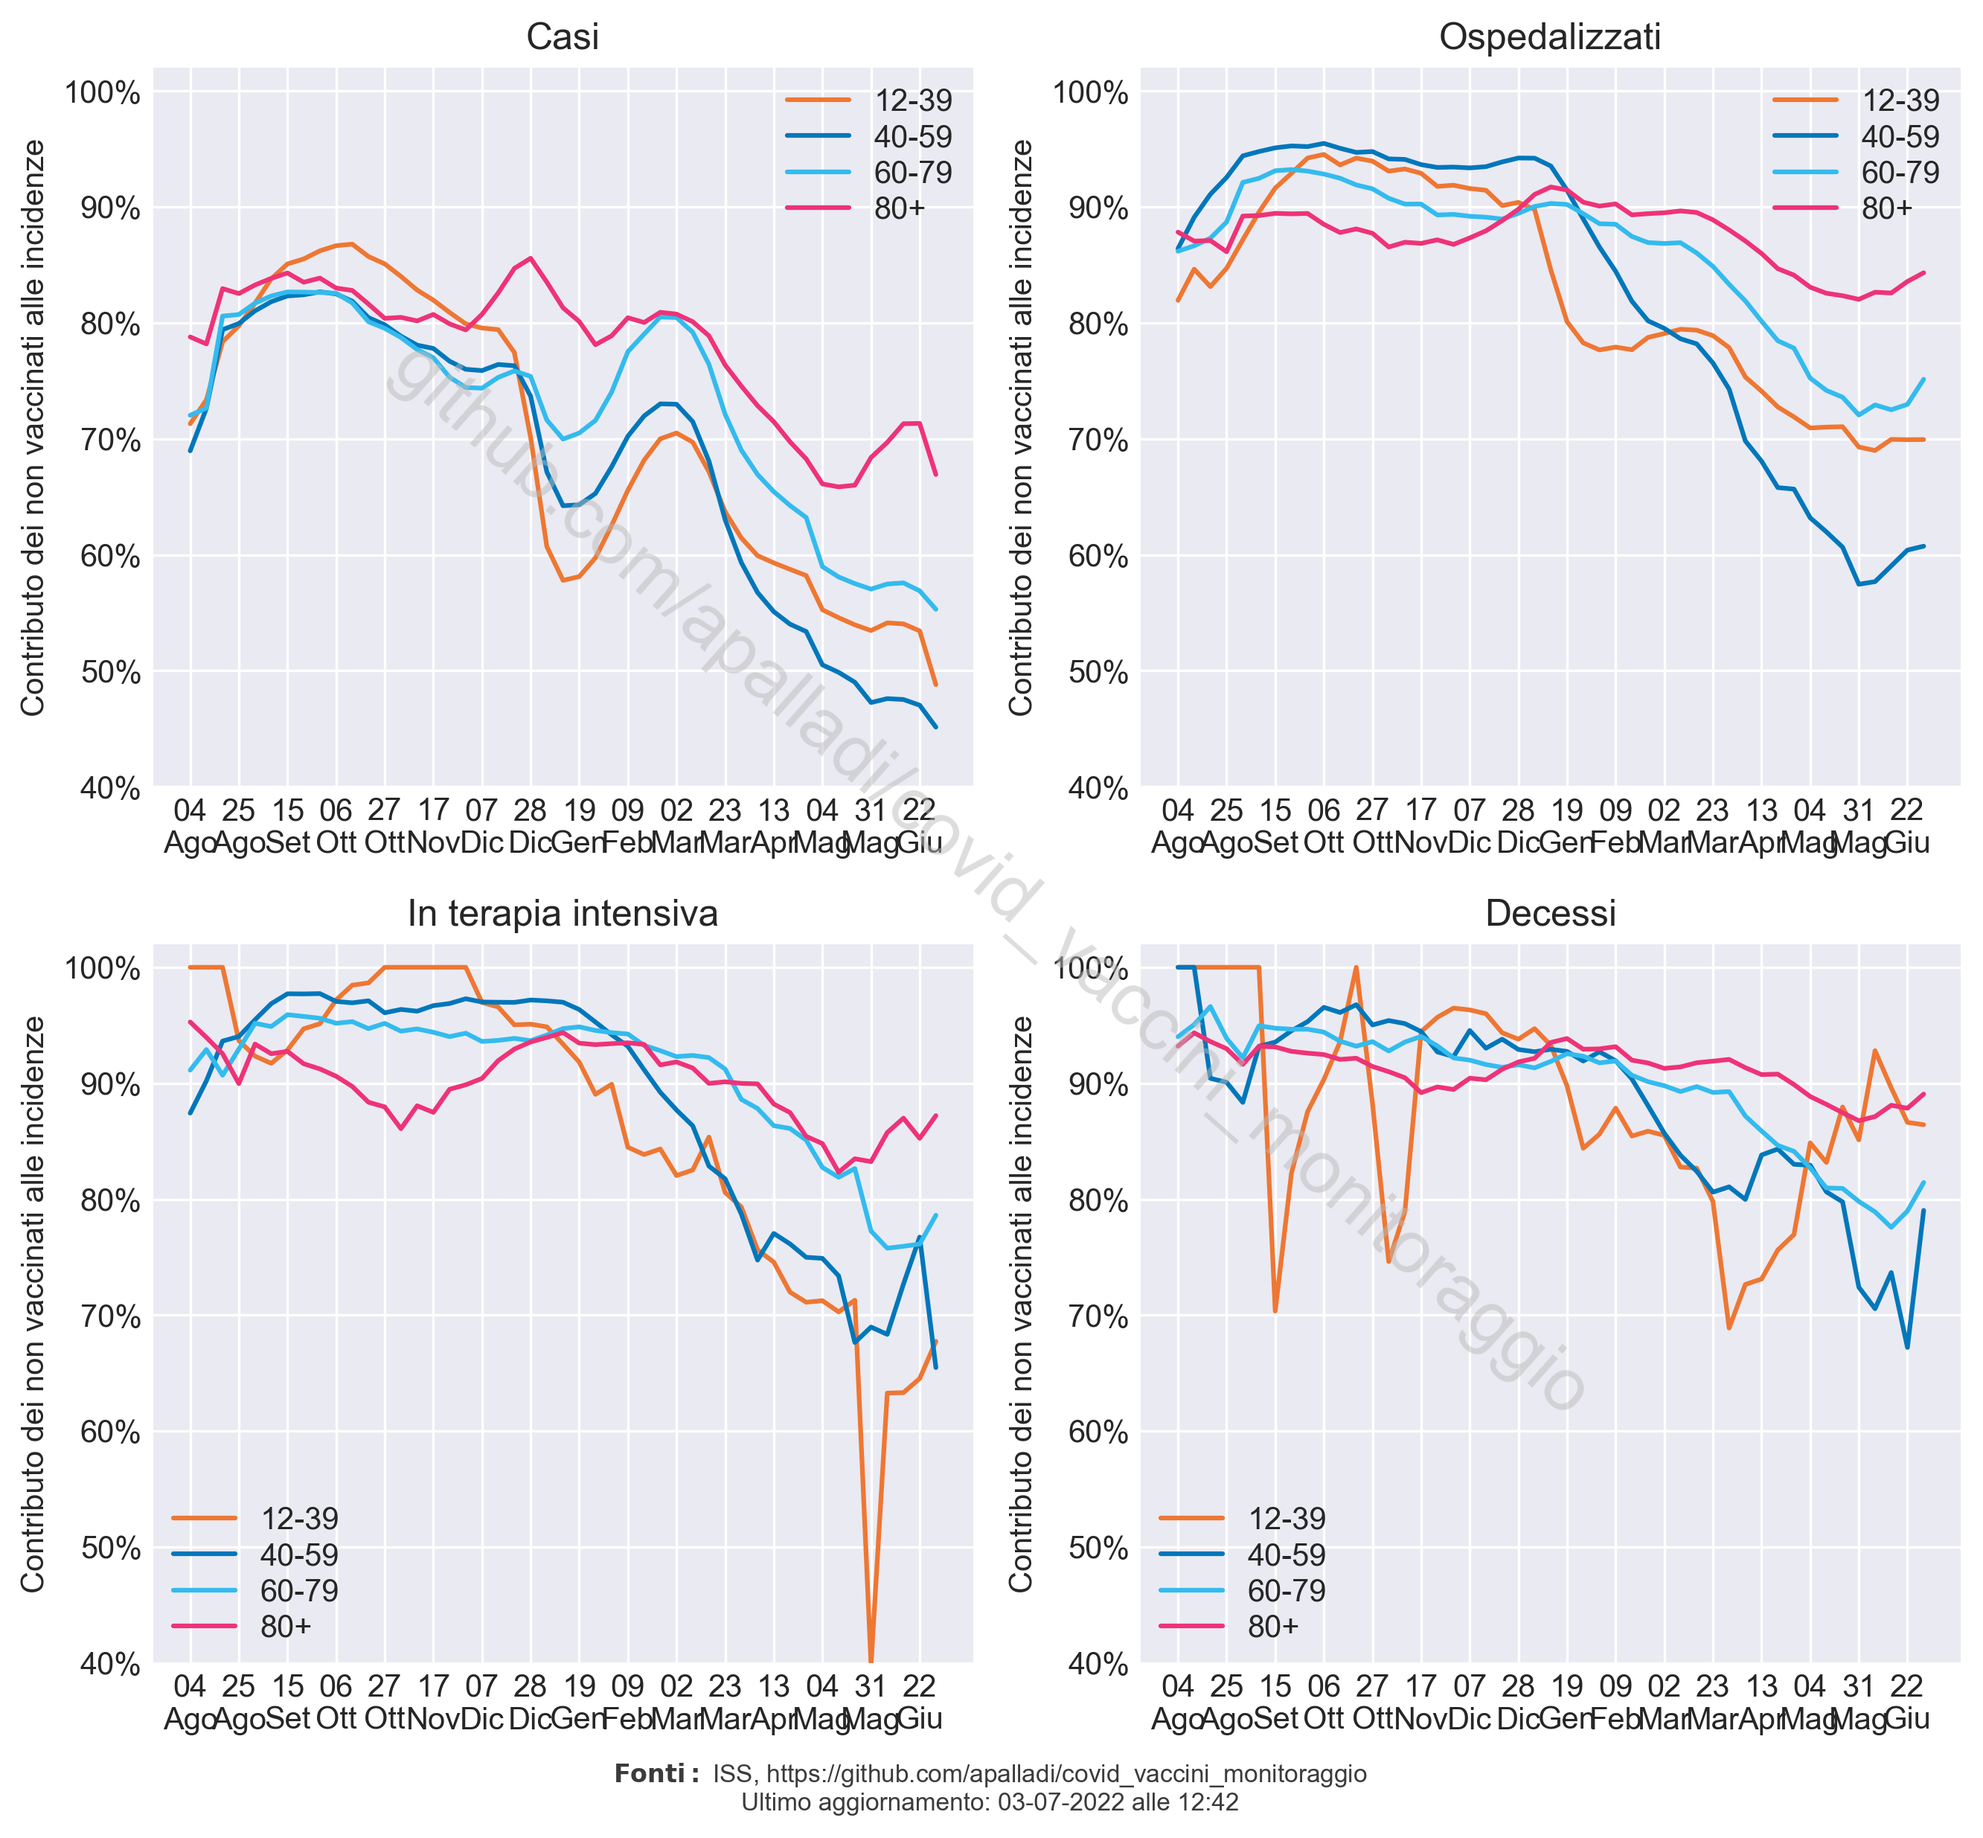
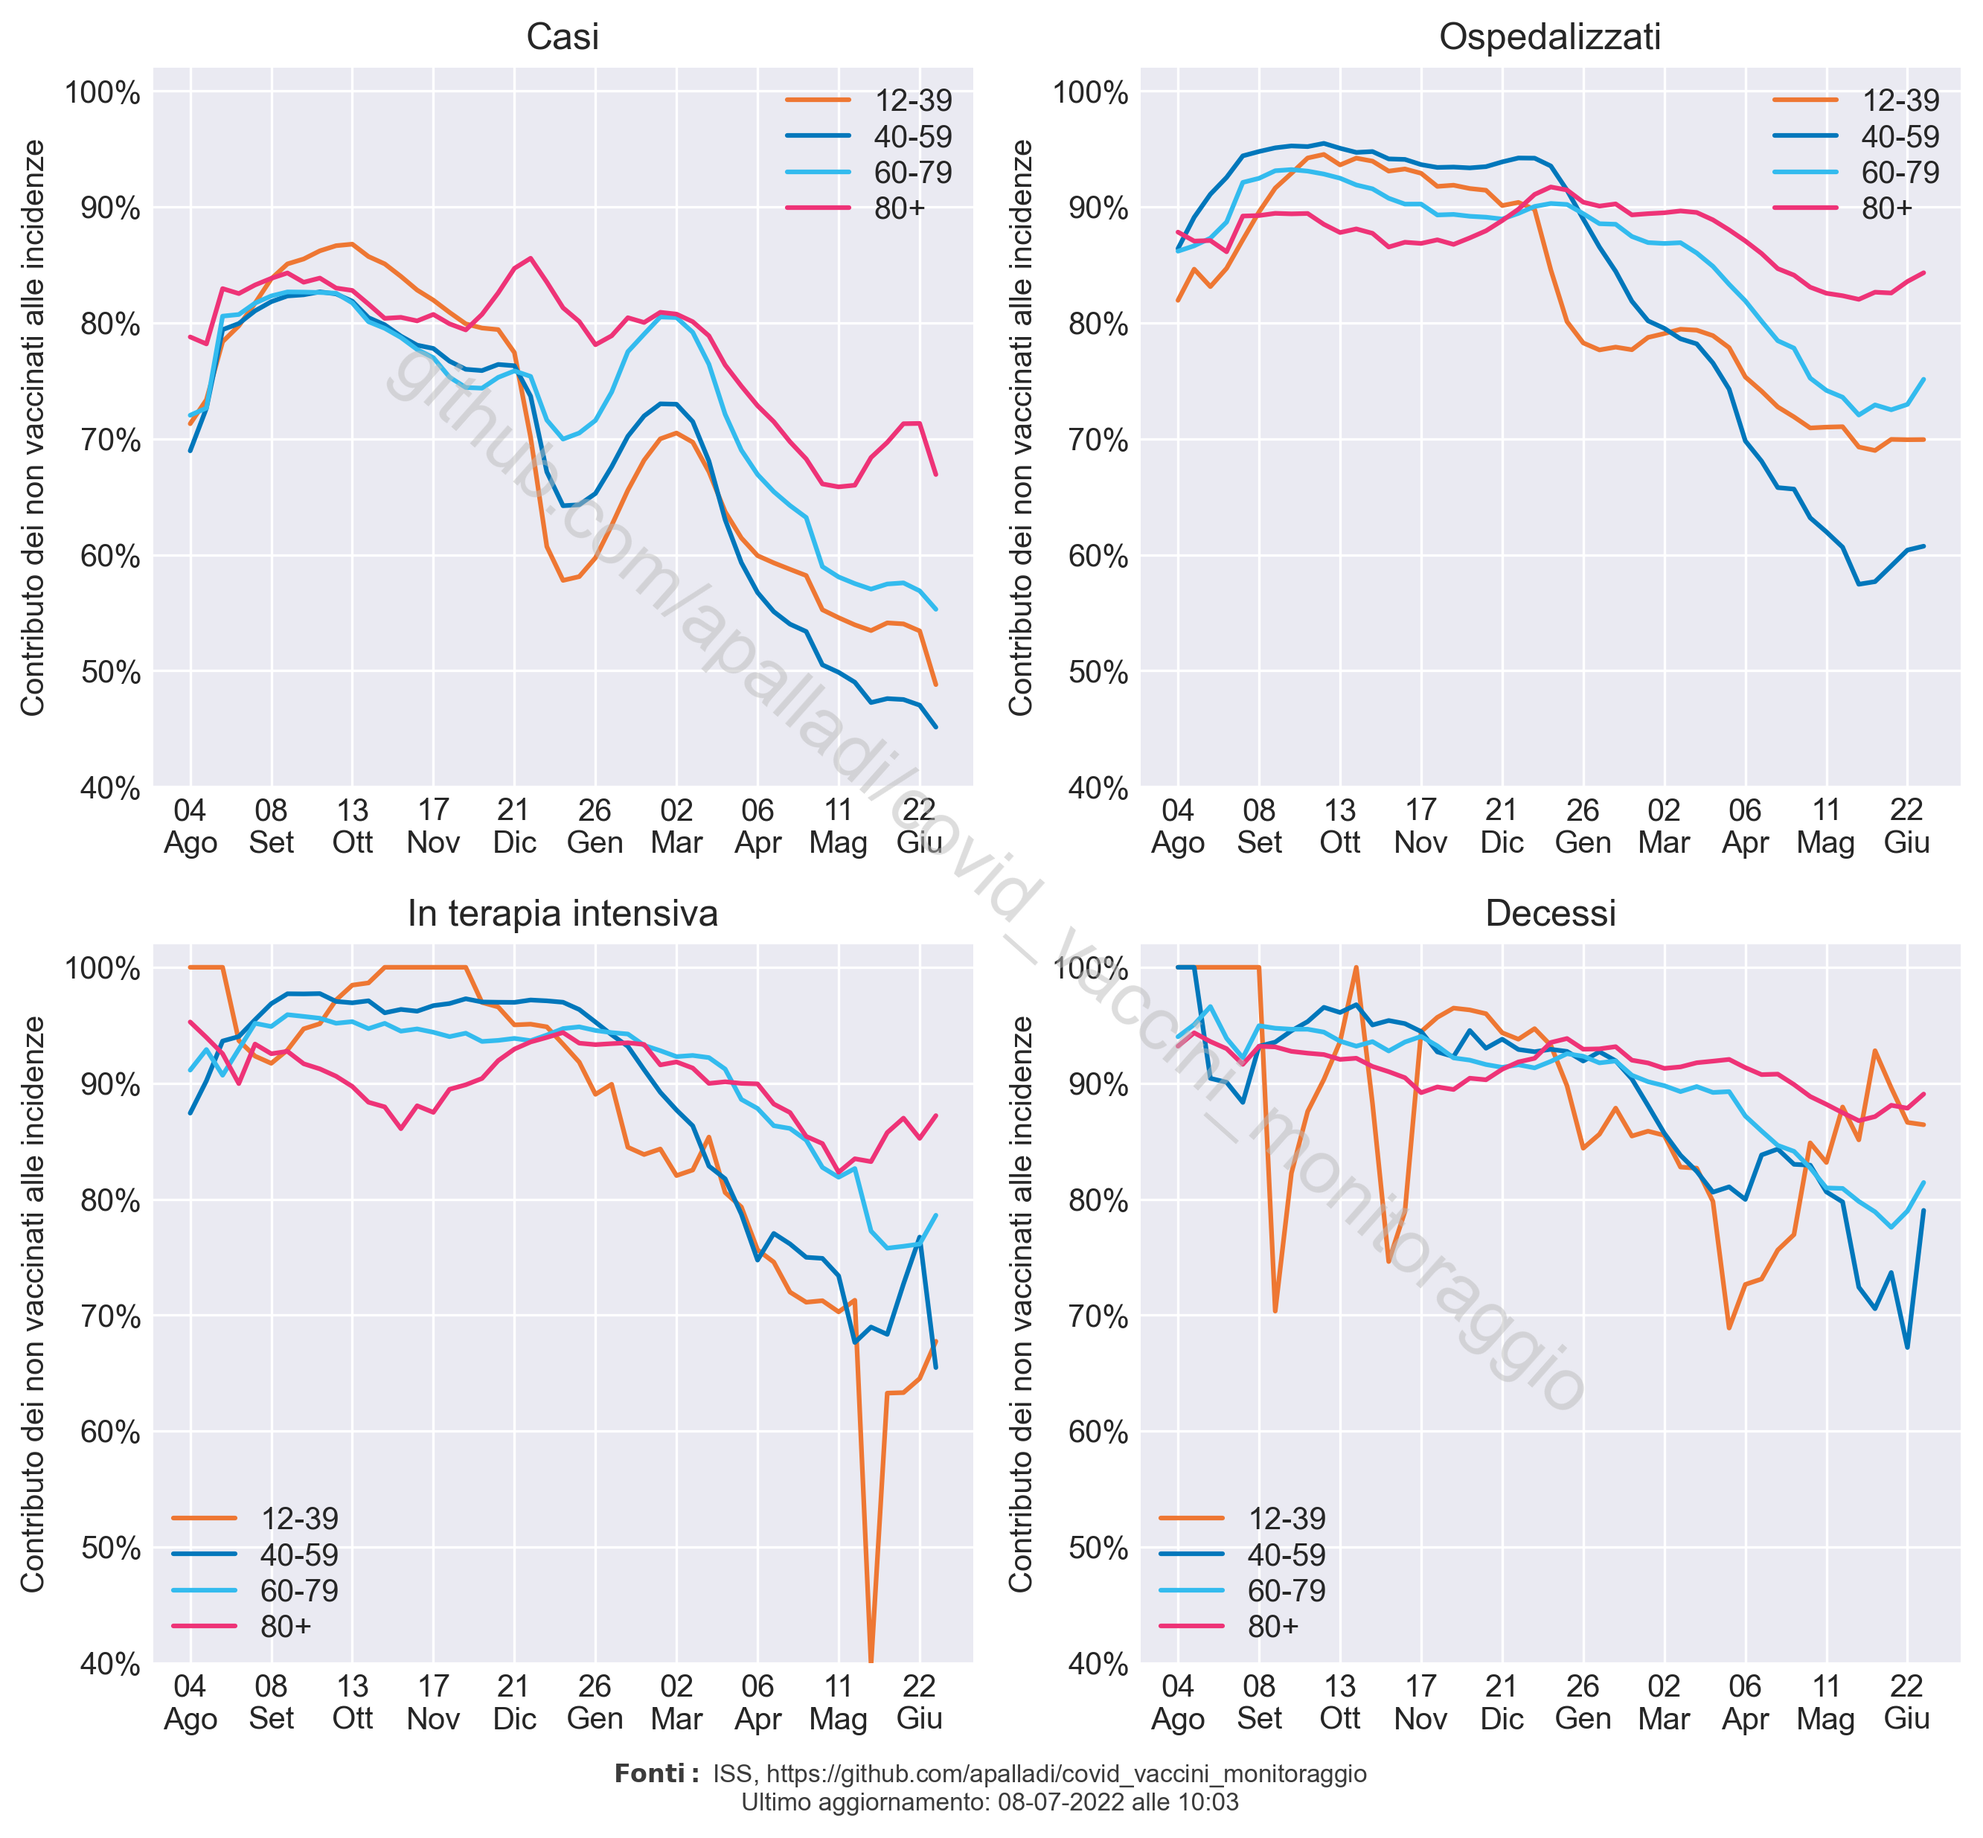
Miglioramento label x grafico andamento rapporti incidenze

diff --git a/scripts/custom/plots.py b/scripts/custom/plots.py
@@ -24,9 +24,9 @@ def get_xticks_labels(reports_dates=None, full=False):
         reports_dates = pd.to_datetime(df_assoluti["data"])
     if full:
         reports_dates.sort_values(inplace=True)
-        sel_dates = reports_dates[0::3]
+        sel_dates = reports_dates[0::5]
         labels = [t.strftime("%d\n%b") for t in sel_dates]
-        ticks = np.arange(0, len(reports_dates), 3)
+        ticks = np.arange(0, len(reports_dates), 5)
     else:
         ticks = set([x.strftime("%Y-%m-01") for x in reports_dates])
         ticks = sorted(ticks)
